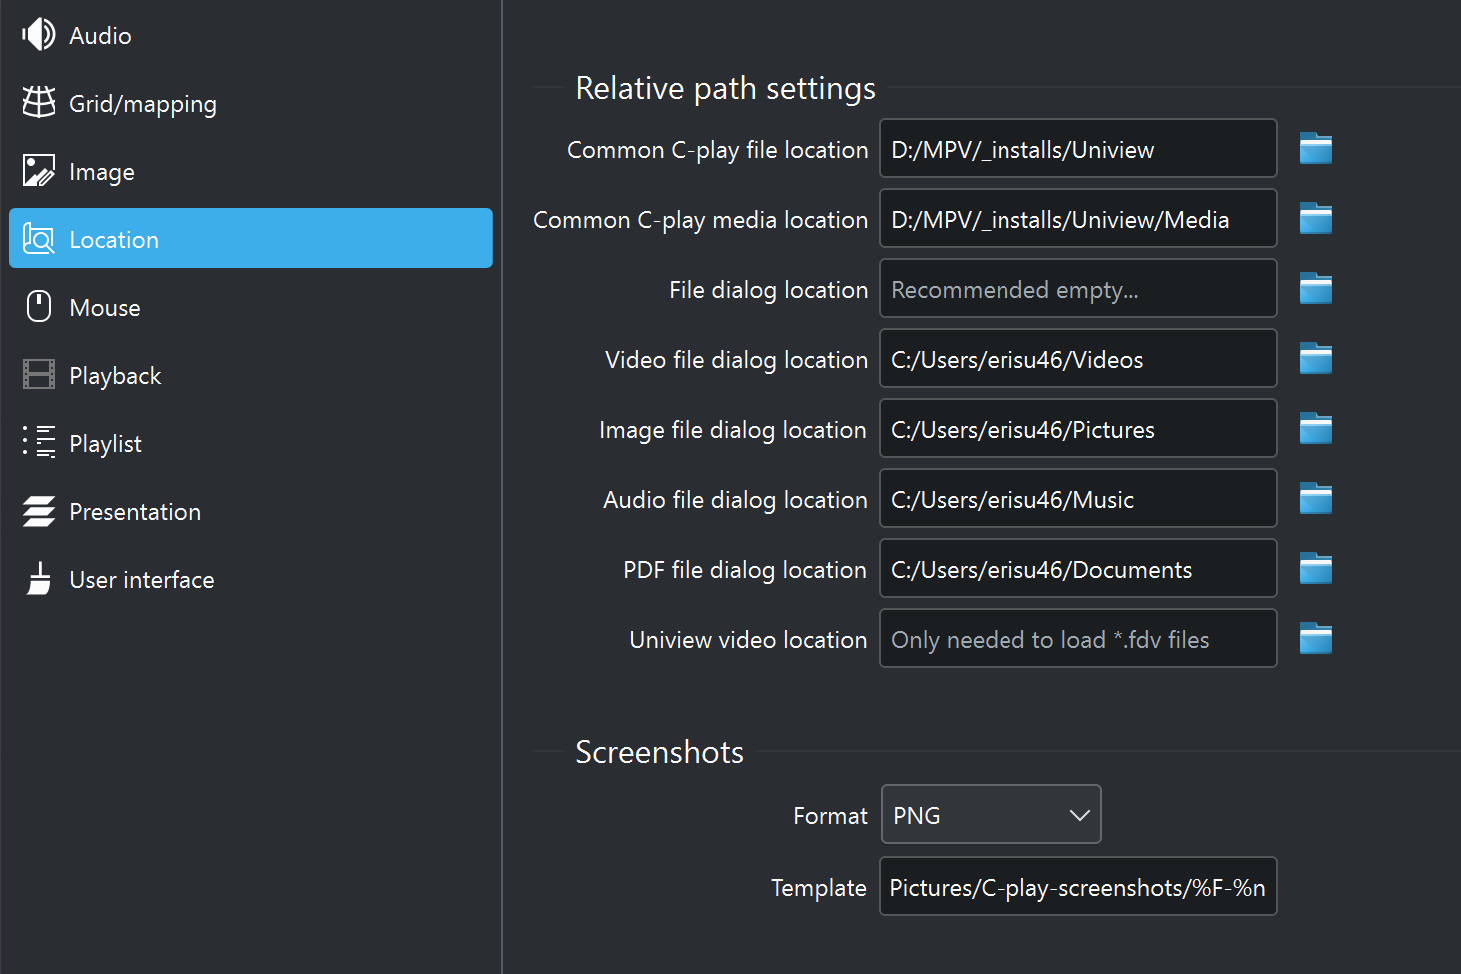
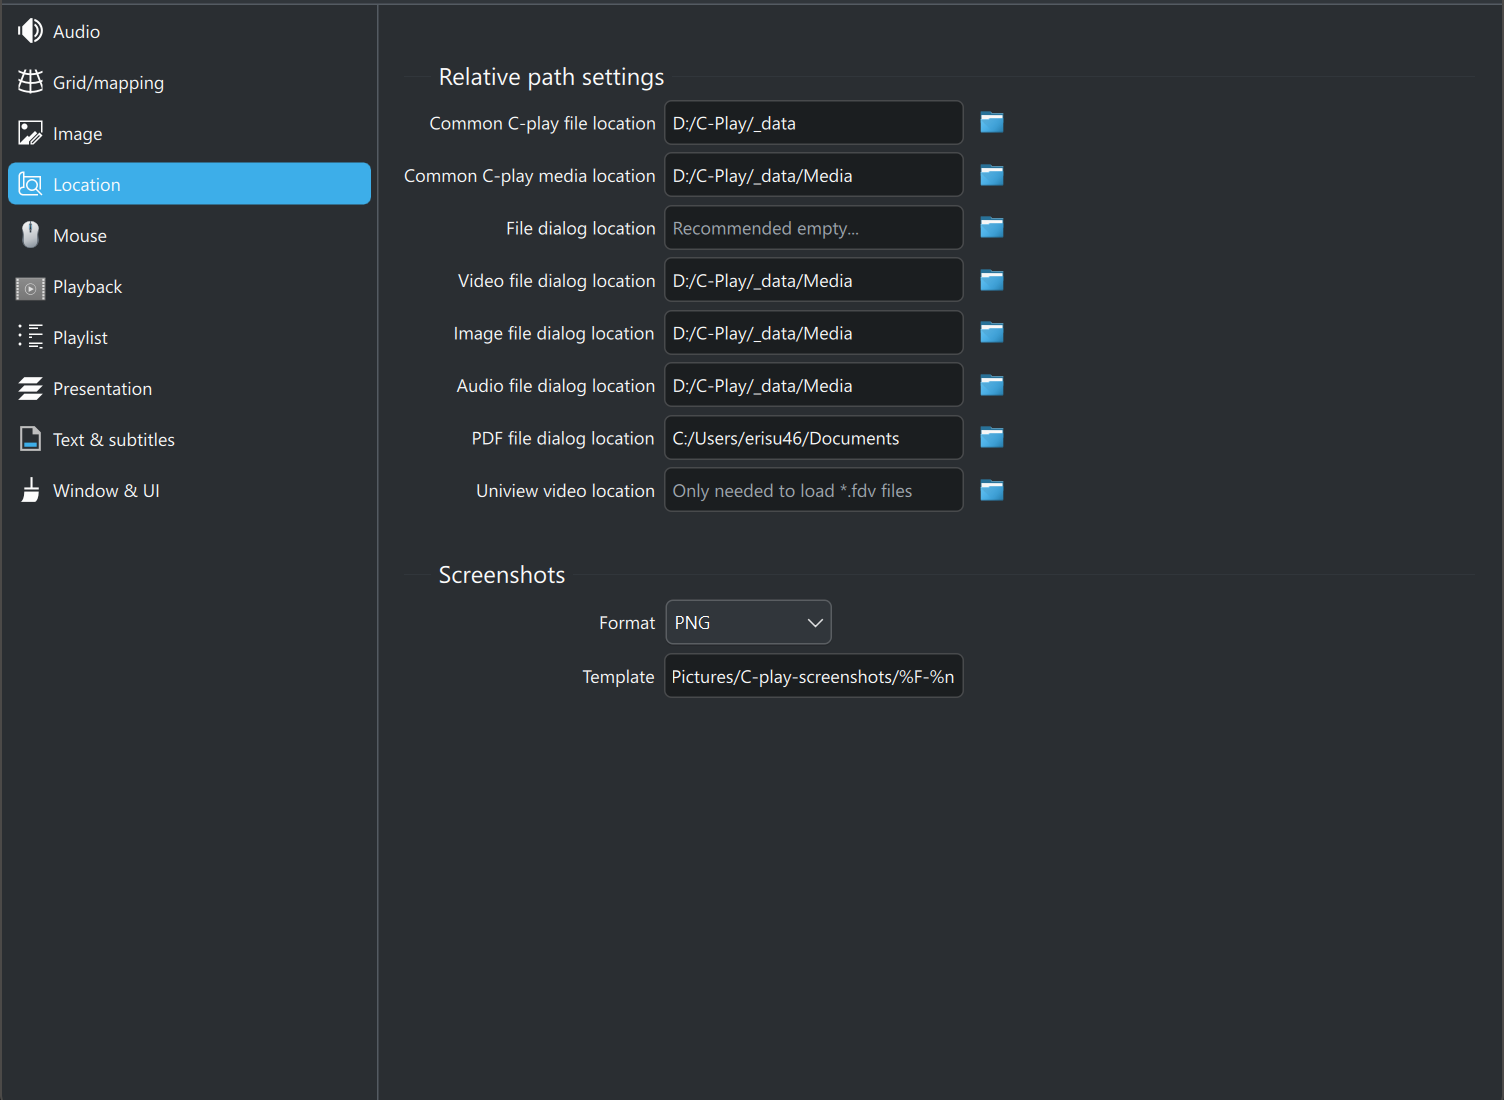
Docs update for upcoming 2.2 release.

diff --git a/src/qml/qt6/Settings/SettingsEditor.qml b/src/qml/qt6/Settings/SettingsEditor.qml
@@ -17,7 +17,7 @@ Kirigami.ApplicationWindow {
 
     property string pagePath: "qrc:/qt/qml/org/ctoolbox/cplay/qml/qt6/Settings"
 
-    height: 700
+    height: 774
     title: qsTr("C-Play Preferences")
     visible: false
     width: 1000

diff --git a/docs/index.md b/docs/index.md
@@ -8,9 +8,9 @@ nav_order: 1
 
 C-Play is a video/media player developed for cluster environments where you need multiple computers and/or displays to run your content on. The displays could be flat or curved in any setup that is supported by our underlying toolkit [SGCT](https://sgct.github.io/) and any media format supported by [MPV](https://mpv.io/).
 
-## Latest Release Version: 2.2
+## Latest Release Version: 2.1
 
-![Render C-Play v2.2](assets/Cplay-v2-1.png)
+![Render C-Play v2.1](assets/Cplay-v2-1.png)
 
 ### Content features
 These are just some features that set C-Play apart from others media/video players:
@@ -47,7 +47,7 @@ Media can be added as layers within slides, using numerous inputs, such as
 
 - Sync playback, loading and other properties between master and clients.
 
-- Playing audio is only available on master. C-Play support change of audio output, and is pre-built with support for "JACK", which opens for multi-channel low-latency output to for instance ASIO devices.
+- Playing audio is only available on master *(Support for node audio is added in 2.2, currently in beta)*. Change of audio output is supported, and C-Play is pre-built with "JACK", which opens for multi-channel low-latency output to for instance ASIO devices.
 
 - Loading external audio files as multiple tracks.
 

diff --git a/docs/versions/v_2_1.md b/docs/versions/v_2_1.md
@@ -1,7 +1,7 @@
 ---
 title: Version 2.1
 layout: home
-nav_order: 1
+nav_order: 2
 parent: Versions
 ---
 
@@ -9,15 +9,17 @@ parent: Versions
 
 This is the landing page for the documentation of C-Play Version 2.1, from the application itself.
 
-Currently, this is the latest version, so the complete guide applies.
+Presentations as slides with various layers was added in this version.
 
-Here are the current application guides for the settings in C-Play v2.1*:
+Layers containing sources such as: *NDI* , *PDF*, *Images*, *Audio & Video (even streams)*
 
- - [Audio settings](../guides/settings/audio)
+Here are the relevant application guides for the settings in C-Play v2.*:
+
+ - [Audio settings](../guides/settings/audio) *(Node audio output added in v2.2)*
  - [Grid/mapping settings](../guides/settings/grid)
  - [Image settings](../guides/settings/image)
  - [Location settings](../guides/settings/location)
  - [Playback settings](../guides/settings/playback)
  - [Playlist settings](../guides/settings/playlist)
- - [Presentation settings](../guides/settings/presentation)
- - [User Interface +  Mouse + Keyboard shortcuts](../guides/settings/ui_mouse_keys)
+ - [Presentation settings](../guides/settings/presentation) *NEW!*
+ - [Mouse + Keyboard shortcuts](../guides/settings/shortcuts_mouse_keys)

diff --git a/docs/versions/v_2_0.md b/docs/versions/v_2_0.md
@@ -1,7 +1,7 @@
 ---
 title: Version 2.0
 layout: home
-nav_order: 2
+nav_order: 3
 parent: Versions
 ---
 
@@ -9,14 +9,14 @@ parent: Versions
 
 This is the landing page for the documentation of C-Play Version 2.0, from the application itself.
 
-Currently, this is the latest released version, so most of the guide applies (while some features are only supported in upcoming 2.1 release).
+Most of this guides below stills is valid for v2.0, but you will find less settings in this version compared to newer release. For instance presentation and NDI etc was added in v2.1.
 
-Here are the current application guides for the settings in C-Play v2.0*:
+Here are the current application guides for the settings in C-Play v2.*:
 
- - [Audio settings](../guides/settings/audio)
+ - [Audio settings](../guides/settings/audio) *(NDI added in v2.1 and Node output in v2.2)*
  - [Grid/mapping settings](../guides/settings/grid)
  - [Image settings](../guides/settings/image)
  - [Location settings](../guides/settings/location)
  - [Playback settings](../guides/settings/playback)
  - [Playlist settings](../guides/settings/playlist)
- - [User Interface +  Mouse + Keyboard shortcuts](../guides/settings/ui_mouse_keys)
+ - [Mouse + Keyboard shortcuts](../guides/settings/shortcuts_mouse_keys)

diff --git a/docs/versions/v_2_2.md b/docs/versions/v_2_2.md
@@ -1,0 +1,28 @@
+---
+title: Version 2.2
+layout: home
+nav_order: 1
+parent: Versions
+---
+
+## (In Beta. Ask for packed version...)
+# C-Play Version 2.2 
+
+This is the landing page for the documentation of C-Play Version 2.2, from the application itself.
+
+Currently, this is the upcoming version, so the guide updates continuously for this release applies.
+
+In this update C-Play is using latest SGCT backend for up-to-date warping support, but XML configs are now dropped. So switch to JSON, as described in - [SGCT Docs](https://sgct.github.io)
+
+Here are the current application guides for the settings in C-Play v2.2:
+
+ - [Audio settings](../guides/settings/audio) *NEW: Node audio output support*
+ - [Grid/mapping settings](../guides/settings/grid)
+ - [Image settings](../guides/settings/image)
+ - [Location settings](../guides/settings/location)
+ - [Playback settings](../guides/settings/playback)
+ - [Playlist settings](../guides/settings/playlist)
+ - [Presentation settings](../guides/settings/presentation)
+ - [Text & subtitles](../guides/settings/subtitles) *NEW!!*
+ - [Window & UI](../guides/settings/window_and_ui) *NEW! (most of it)*
+ - [Mouse + Keyboard shortcuts](../guides/settings/shortcuts_mouse_keys)

diff --git a/docs/settings.md b/docs/settings.md
@@ -8,11 +8,13 @@ nav_order: 5
 
 # The settings within C-Play
 
- - [Audio settings](guides/settings/audio)
- - [Grid/mapping settings](guides/settings/grid)
- - [Image settings](guides/settings/image)
- - [Location settings](guides/settings/location)
- - [Playback settings](guides/settings/playback)
- - [Playlist settings](guides/settings/playlist)
- - [Presentation settings](guides/settings/presentation)
-- [User Interface +  Mouse + Keyboard shortcuts](guides/settings/ui_mouse_keys)
+ - [Audio settings](../guides/settings/audio) *Upcoming: Node audio output support*
+ - [Grid/mapping settings](../guides/settings/grid)
+ - [Image settings](../guides/settings/image)
+ - [Location settings](../guides/settings/location)
+ - [Playback settings](../guides/settings/playback)
+ - [Playlist settings](../guides/settings/playlist)
+ - [Presentation settings](../guides/settings/presentation)
+ - [Text & subtitles](../guides/settings/subtitles) *In upcoming 2.2*
+ - [Window & UI](../guides/settings/window_and_ui) *Most of it in upcoming 2.2*
+ - [Mouse + Keyboard shortcuts](../guides/settings/shortcuts_mouse_keys)

diff --git a/docs/guides/settings/shortcuts_mouse_keys.md b/docs/guides/settings/shortcuts_mouse_keys.md
@@ -1,0 +1,14 @@
+---
+title: Mouse + Keyboard shortcuts
+layout: home
+nav_order: 10
+parent: Settings
+---
+
+# Mouse + Keyboard shortcuts
+
+The settings for the mouse buttons and keyboard shortcuts should be straight-forward to understand. Below you find reference images of these controls, which can be useful if you have hidden the *MenuBar* and/or *Header* and forgotten the keyboard shortcuts to bring them back.
+
+![Mouse](../../assets/ui/settings/mouse.png)
+
+![Keyboard Shortcuts](../../assets/ui/settings/keyboard_shortcuts.png) 

diff --git a/docs/versions.md b/docs/versions.md
@@ -8,6 +8,7 @@ nav_order: 9
 
 # C-Play Versions
 
- - [Version 2.1 (Master)](versions/v_2_1)
- - [Version 2.0 (Latest Release)](versions/v_2_0)
+ - [Version 2.2 (Master)](versions/v_2_2)
+ - [Version 2.1 (Latest Release)](versions/v_2_1)
+ - [Version 2.0](versions/v_2_0)
  - [Version 1.0 (Legacy)](versions/v_1_0)

diff --git a/docs/guides/settings/window_and_ui.md b/docs/guides/settings/window_and_ui.md
@@ -1,0 +1,10 @@
+---
+title: Window & UI
+layout: home
+nav_order: 9
+parent: Settings
+---
+
+# Window and UI settings
+
+![User Interface](../../assets/ui/settings/user_interface.png)

diff --git a/docs/guides/settings/subtitles.md b/docs/guides/settings/subtitles.md
@@ -1,0 +1,10 @@
+---
+title: Text & subtitles
+layout: home
+nav_order: 8
+parent: Settings
+---
+
+# Text & subtitles
+
+![User Interface](../../assets/ui/settings/subtitles.png)

diff --git a/docs/versions/v_1_0.md b/docs/versions/v_1_0.md
@@ -1,7 +1,7 @@
 ---
 title: Version 1.0
 layout: home
-nav_order: 3
+nav_order: 4
 parent: Versions
 ---
 
